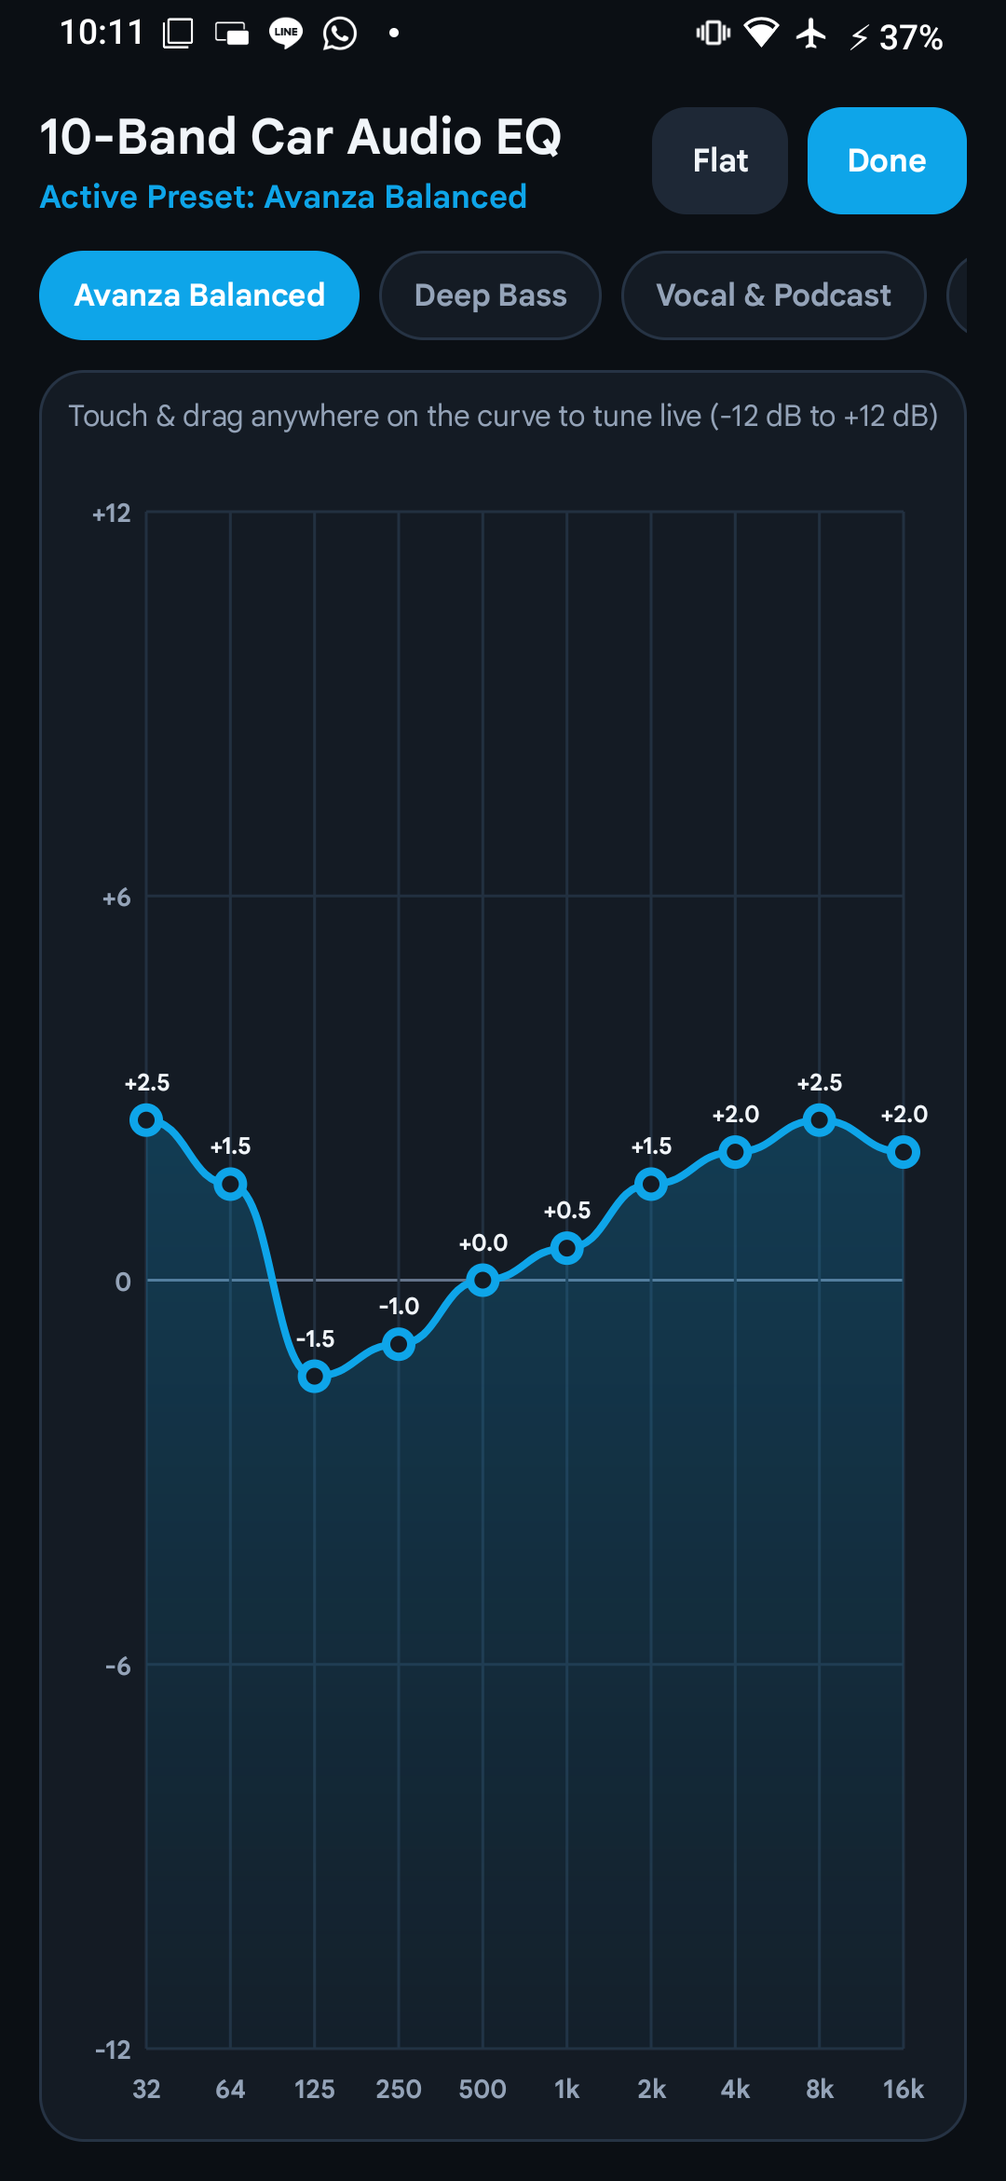
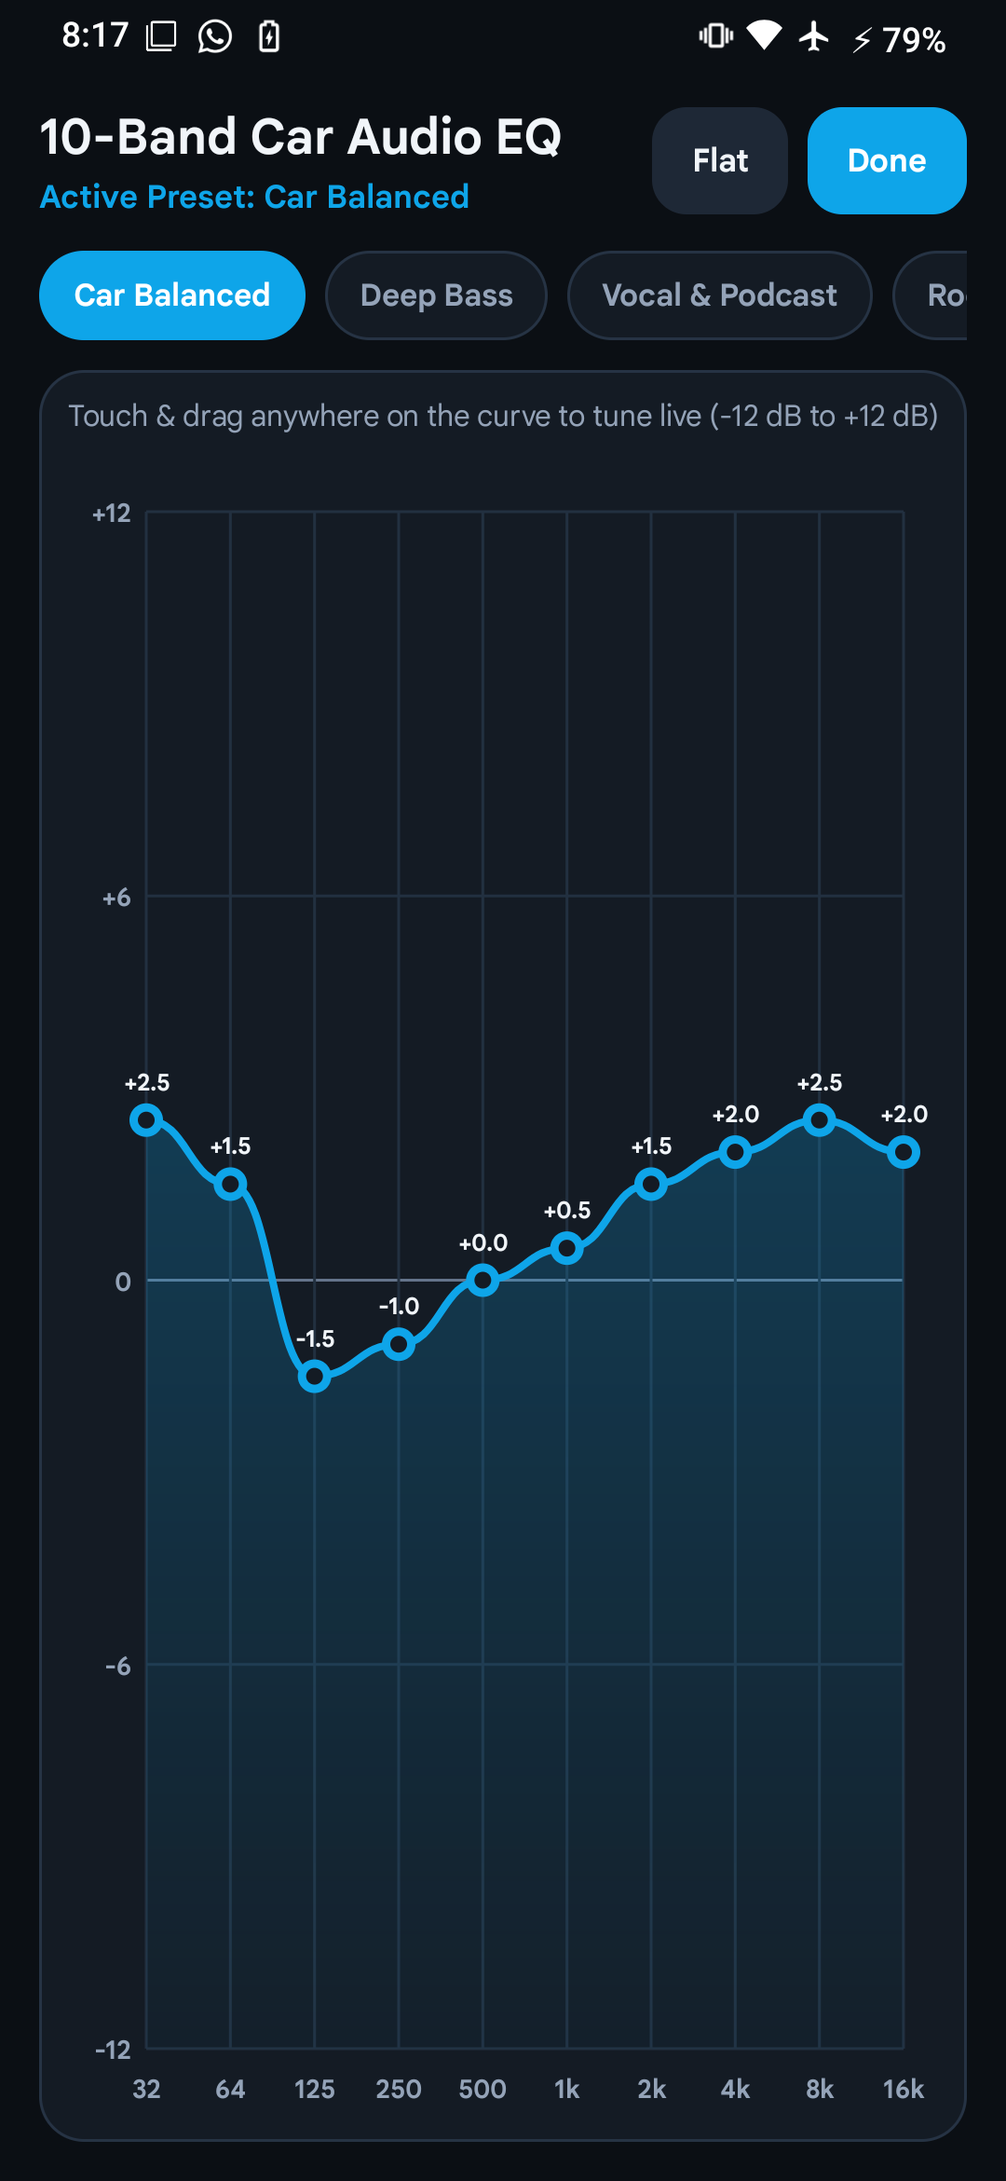
refactor(branding): generalize Toyota T-Link labels and refresh screenshots

diff --git a/apps/tlinkx-companion/src/com/tlinkx/companion/MainActivity.java b/apps/tlinkx-companion/src/com/tlinkx/companion/MainActivity.java
@@ -145,7 +145,7 @@ public class MainActivity extends Activity implements CarModeService.Callback {
                     .putString("touch_fit", CarDisplayController.DEFAULT_TOUCH_FIT)
                     .putBoolean("dock_enabled", true)
                     .putBoolean("dock_right", true)
-                    .putString("eq_preset", BluetoothAudioController.EQ_AVANZA_BALANCED)
+                    .putString("eq_preset", BluetoothAudioController.EQ_CAR_BALANCED)
                     .putBoolean("auto_vol_95", true)
                     .putBoolean("v2_defaults_applied", true)
                     .apply();
@@ -197,7 +197,7 @@ public class MainActivity extends Activity implements CarModeService.Callback {
         titleCol.addView(appTitle);
 
         TextView carModel = new TextView(this);
-        carModel.setText("Toyota Avanza Companion");
+        carModel.setText("Toyota T-Link Companion");
         carModel.setTextColor(theme.textSecondary);
         carModel.setTextSize(TypedValue.COMPLEX_UNIT_SP, 13);
         titleCol.addView(carModel);
@@ -217,7 +217,7 @@ public class MainActivity extends Activity implements CarModeService.Callback {
         LinearLayout heroCard = theme.makeCard(this);
 
         statusSubtitle = new TextView(this);
-        statusSubtitle.setText("Tap Start before plugging your phone into the Avanza USB port.");
+        statusSubtitle.setText("Tap Start before plugging your phone into your car's USB port.");
         statusSubtitle.setTextColor(theme.textSecondary);
         statusSubtitle.setTextSize(TypedValue.COMPLEX_UNIT_SP, 13.5f);
         statusSubtitle.setLineSpacing(dp(3), 1f);
@@ -372,7 +372,7 @@ public class MainActivity extends Activity implements CarModeService.Callback {
         dockAudioCard.addView(eqTitle);
 
         TextView eqSub = new TextView(this);
-        eqSub.setText("Tuned for Avanza Bluetooth audio (BAM)");
+        eqSub.setText("Tuned for Toyota Display Audio (Bluetooth)");
         eqSub.setTextColor(theme.textSecondary);
         eqSub.setTextSize(TypedValue.COMPLEX_UNIT_SP, 12.5f);
         LinearLayout.LayoutParams eqSubLp = new LinearLayout.LayoutParams(
@@ -384,7 +384,7 @@ public class MainActivity extends Activity implements CarModeService.Callback {
         eqRow.setOrientation(LinearLayout.HORIZONTAL);
         String[] eqLabels = new String[]{"Balanced", "Bass", "Vocal", "Custom"};
         String[] quickEqKeys = new String[]{
-                BluetoothAudioController.EQ_AVANZA_BALANCED,
+                BluetoothAudioController.EQ_CAR_BALANCED,
                 BluetoothAudioController.EQ_DEEP_BASS,
                 BluetoothAudioController.EQ_VOCAL_CLARITY,
                 BluetoothAudioController.EQ_CUSTOM
@@ -501,7 +501,7 @@ public class MainActivity extends Activity implements CarModeService.Callback {
         advancedContent.addView(theme.makeDivider(this));
 
         rotValue = makeValueLabel();
-        advancedContent.addView(makePickerRow("Touch Rotation", "Avanza calibrated to 270\u00B0", rotValue, v -> {
+        advancedContent.addView(makePickerRow("Touch Rotation", "Default calibrated to 270\u00B0", rotValue, v -> {
             int next = (prefs.getInt("touch_rot", CarDisplayController.DEFAULT_TOUCH_ROT) + 90) % 360;
             prefs.edit().putInt("touch_rot", next).apply();
             updateAllOptionViews();
@@ -765,17 +765,17 @@ public class MainActivity extends Activity implements CarModeService.Callback {
                     statusBadge.setText("\u25CF  Connected");
                     statusBadge.setBackground(theme.roundedRect(this, theme.accentSuccessBg, Color.TRANSPARENT, 99, false));
                     statusBadge.setTextColor(theme.accentSuccessText);
-                    statusSubtitle.setText("Connected to Avanza — 1024\u00D7600 fullscreen and direct touch are active.");
+                    statusSubtitle.setText("Connected to car display — fullscreen and direct touch are active.");
                 } else if (daemonOk && autoTrig) {
                     statusBadge.setText("\u25CF  Auto-Ready");
                     statusBadge.setBackground(theme.roundedRect(this, theme.accentSuccessBg, Color.TRANSPARENT, 99, false));
                     statusBadge.setTextColor(theme.accentSuccessText);
-                    statusSubtitle.setText("Zero-touch mode active — just plug into your Avanza USB port. No app or notification runs while unplugged.");
+                    statusSubtitle.setText("Zero-touch mode active — just plug into your car's USB port. No app or notification runs while unplugged.");
                 } else {
                     statusBadge.setText("\u25CF  Paused");
                     statusBadge.setBackground(theme.roundedRect(this, theme.bgSubtle, Color.TRANSPARENT, 99, false));
                     statusBadge.setTextColor(theme.textSecondary);
-                    statusSubtitle.setText("Tap Enable Zero-Touch Mode once so T-LinkX wakes automatically whenever you plug into your Avanza.");
+                    statusSubtitle.setText("Tap Enable Zero-Touch Mode once so T-LinkX wakes automatically whenever you plug into your car.");
                 }
 
                 if (carAct) {
@@ -808,7 +808,8 @@ public class MainActivity extends Activity implements CarModeService.Callback {
         boolean dockOn = prefs.getBoolean("dock_enabled", true);
         boolean dockRight = prefs.getBoolean("dock_right", true);
         boolean autoVol = prefs.getBoolean("auto_vol_95", true);
-        String eq = prefs.getString("eq_preset", BluetoothAudioController.EQ_AVANZA_BALANCED);
+        String eq = prefs.getString("eq_preset", BluetoothAudioController.EQ_CAR_BALANCED);
+        if ("avanza_balanced".equals(eq)) eq = BluetoothAudioController.EQ_CAR_BALANCED;
         String preset = prefs.getString("preset", CarDisplayController.DEFAULT_PRESET);
         int rot = prefs.getInt("touch_rot", CarDisplayController.DEFAULT_TOUCH_ROT);
         String fit = prefs.getString("touch_fit", CarDisplayController.DEFAULT_TOUCH_FIT);
@@ -821,7 +822,7 @@ public class MainActivity extends Activity implements CarModeService.Callback {
         chipEq.setText("EQ: " + shortEqLabel(eq));
 
         String[] quickEqKeys = new String[]{
-                BluetoothAudioController.EQ_AVANZA_BALANCED,
+                BluetoothAudioController.EQ_CAR_BALANCED,
                 BluetoothAudioController.EQ_DEEP_BASS,
                 BluetoothAudioController.EQ_VOCAL_CLARITY,
                 BluetoothAudioController.EQ_CUSTOM

diff --git a/apps/tlinkx-companion/native/tlinkx-touchd.c b/apps/tlinkx-companion/native/tlinkx-touchd.c
@@ -380,7 +380,7 @@ static int find_phone_touchpanel(char *out_path, size_t out_len) {
     return found_fd;
 }
 
-static int find_avanza_touch(char *out_path, size_t out_len) {
+static int find_car_touch(char *out_path, size_t out_len) {
     DIR *dir = opendir("/dev/input");
     if (!dir) return -1;
 
@@ -459,7 +459,7 @@ static int create_uinput_touchscreen(void) {
     usetup.id.vendor = VIRT_VENDOR;
     usetup.id.product = VIRT_PRODUCT;
     usetup.id.version = VIRT_VERSION;
-    snprintf(usetup.name, UINPUT_MAX_NAME_SIZE, "T-LinkX Avanza Touchscreen");
+    snprintf(usetup.name, UINPUT_MAX_NAME_SIZE, "T-LinkX Direct Touchscreen");
 
     if (ioctl(ufd, UI_DEV_SETUP, &usetup) < 0 || ioctl(ufd, UI_DEV_CREATE) < 0) {
         log_msg("ERROR: uinput setup/create failed: %s", strerror(errno));
@@ -553,7 +553,7 @@ static void bridge_session(int touch_fd, const char *touch_path, int phone_fd, i
         log_msg("ERROR: EVIOCGRAB failed on %s: %s", touch_path, strerror(errno));
         return;
     }
-    log_msg("Grabbed Avanza touch node %s (EVIOCGRAB=1 -> TouchpadInputMapper silenced)", touch_path);
+    log_msg("Grabbed car touch node %s (EVIOCGRAB=1 -> TouchpadInputMapper silenced)", touch_path);
 
     int ufd = create_uinput_touchscreen();
     if (ufd < 0) {
@@ -601,7 +601,7 @@ static void bridge_session(int touch_fd, const char *touch_path, int phone_fd, i
         if (rc == 0) continue;
 
         if (pfds[idx_touch].revents & (POLLHUP | POLLERR | POLLNVAL)) {
-            log_msg("Avanza touch node %s disconnected (revents=0x%x)", touch_path, pfds[idx_touch].revents);
+            log_msg("Car touch node %s disconnected (revents=0x%x)", touch_path, pfds[idx_touch].revents);
             break;
         }
 
@@ -685,7 +685,7 @@ int main(void) {
         log_msg("Watching phone touchpanel %s for tap-to-wake OLED backlight", phone_path);
     }
     if (uevent_fd >= 0) {
-        log_msg("Listening on NETLINK_KOBJECT_UEVENT (0%% CPU sleep until Avanza USB plug-in)");
+        log_msg("Listening on NETLINK_KOBJECT_UEVENT (0%% CPU sleep until car USB plug-in)");
     }
 
     reload_config(true);
@@ -695,7 +695,7 @@ int main(void) {
         check_pending_disconnect();
 
         char path[128] = {0};
-        int touch_fd = find_avanza_touch(path, sizeof(path));
+        int touch_fd = find_car_touch(path, sizeof(path));
         if (touch_fd >= 0) {
             bridge_session(touch_fd, path, phone_fd, uevent_fd);
             close(touch_fd);

diff --git a/apps/tlinkx-companion/src/com/tlinkx/companion/CarDisplayController.java b/apps/tlinkx-companion/src/com/tlinkx/companion/CarDisplayController.java
@@ -43,7 +43,7 @@ public final class CarDisplayController {
     private static volatile boolean sBlackoutActive = false;
 
     public static String buildVirtualTouchIdc(boolean orientationAware) {
-        return "# T-LinkX Virtual Direct Touchscreen (uinput bridge for Avanza 1.5G)\n"
+        return "# T-LinkX Virtual Direct Touchscreen (uinput bridge for Toyota T-Link)\n"
                 + "device.internal = 1\n"
                 + "touch.deviceType = touchScreen\n"
                 + "touch.orientationAware = " + (orientationAware ? "1" : "0") + "\n";
@@ -54,11 +54,11 @@ public final class CarDisplayController {
         String nativeBin = ctx.getApplicationInfo().nativeLibraryDir + "/libtlinkx_touchd.so";
         String ksuBin = IDC_KSU_DIR + "/bin/tlinkx-touchd";
         String moduleProp = "id=tlinkx-touch\n"
-                + "name=T-LinkX Avanza Zero-Touch Car Mode + Touch Bridge\n"
-                + "version=v2.4.0\n"
-                + "versionCode=12\n"
+                + "name=T-LinkX Zero-Touch Car Mode + Touch Bridge\n"
+                + "version=v2.4.4\n"
+                + "versionCode=16\n"
                 + "author=T-LinkX\n"
-                + "description=Zero-touch USB AOA auto-trigger, direct touchscreen bridge for Avanza 1.5G, and boot failsafe.\n";
+                + "description=Zero-touch USB AOA auto-trigger, direct touchscreen bridge for Toyota T-Link, and boot failsafe.\n";
         String serviceSh = "#!/system/bin/sh\n"
                 + "until [ \"$(getprop sys.boot_completed)\" = \"1\" ]; do sleep 2; done\n"
                 + "wm size reset\n"
@@ -398,7 +398,7 @@ public final class CarDisplayController {
                 "echo '=== DAEMON LOG ==='; "
                         + "if [ -f " + TOUCH_LOG_PATH + " ]; then tail -n 25 " + TOUCH_LOG_PATH + "; else echo '(no daemon log yet)'; fi; "
                         + "echo '=== INPUT READER (T-LinkX) ==='; "
-                        + "dumpsys input | awk '/Device [0-9]+: T-LinkX Avanza Touchscreen/{p=1} p{print} p && /PressureScale/{p=0}' | head -n 35",
+                        + "dumpsys input | awk '/Device [0-9]+: T-LinkX Direct Touchscreen/{p=1} p{print} p && /PressureScale/{p=0}' | head -n 35",
                 5000);
         return r.out.trim();
     }

diff --git a/apps/tlinkx-companion/src/com/tlinkx/companion/BluetoothAudioController.java b/apps/tlinkx-companion/src/com/tlinkx/companion/BluetoothAudioController.java
@@ -12,7 +12,7 @@ import android.media.audiofx.DynamicsProcessing;
 public final class BluetoothAudioController {
     private static final String PREFS = "tlinkx_prefs";
 
-    public static final String EQ_AVANZA_BALANCED = "avanza_balanced";
+    public static final String EQ_CAR_BALANCED = "car_balanced";
     public static final String EQ_DEEP_BASS = "deep_bass";
     public static final String EQ_VOCAL_CLARITY = "vocal_clarity";
     public static final String EQ_ROCK_POP = "rock_pop";
@@ -23,7 +23,7 @@ public final class BluetoothAudioController {
     public static final String EQ_OFF = "off";
 
     public static final String[] ALL_PRESETS = new String[]{
-            EQ_AVANZA_BALANCED,
+            EQ_CAR_BALANCED,
             EQ_DEEP_BASS,
             EQ_VOCAL_CLARITY,
             EQ_ROCK_POP,
@@ -66,7 +66,7 @@ public final class BluetoothAudioController {
         if (EQ_NIGHT_DRIVE.equals(preset)) return "Night Drive";
         if (EQ_CUSTOM.equals(preset)) return "Custom";
         if (EQ_OFF.equals(preset)) return "Flat / Off";
-        return "Avanza Balanced";
+        return "Car Balanced";
     }
 
     public static float[] getGainsForPreset(Context ctx, String preset) {
@@ -94,7 +94,7 @@ public final class BluetoothAudioController {
         if (EQ_CUSTOM.equals(preset)) {
             return loadCustomGains(ctx);
         }
-        // Avanza Balanced: tight sub-bass, tame door boom @ 125-250Hz, clear mids & crisp highs
+        // Car Balanced: tight sub-bass, tame door boom @ 125-250Hz, clear mids & crisp highs
         return new float[]{2.5f, 1.5f, -1.5f, -1.0f, 0.0f, 0.5f, 1.5f, 2.0f, 2.5f, 2.0f};
     }
 

diff --git a/apps/tlinkx-companion/src/com/tlinkx/companion/CarModeService.java b/apps/tlinkx-companion/src/com/tlinkx/companion/CarModeService.java
@@ -201,8 +201,8 @@ public class CarModeService extends Service {
             return;
         }
         startForegroundCompat(autoTriggered
-                ? "Avanza USB detected — preparing 1024x600 Car Mode..."
-                : "Starting Touch Bridge + Watching Avanza USB...");
+                ? "Car USB detected — preparing fullscreen Car Mode..."
+                : "Starting Touch Bridge + Watching Car USB...");
         notifyState();
 
         pollerThread = new Thread(() -> {
@@ -365,7 +365,7 @@ public class CarModeService extends Service {
         mirroringOverlaysActive.set(true);
 
         SharedPreferences sp = getSharedPreferences(PREFS, MODE_PRIVATE);
-        String eqPreset = sp.getString("eq_preset", BluetoothAudioController.EQ_AVANZA_BALANCED);
+        String eqPreset = sp.getString("eq_preset", BluetoothAudioController.EQ_CAR_BALANCED);
         boolean autoVol = sp.getBoolean("auto_vol_95", true);
 
         if (audioController != null) {
@@ -474,7 +474,7 @@ public class CarModeService extends Service {
         } else if (carDisplayActive.get()) {
             txt = "USB ATTACHED (1024x600 Ready) - Waiting for T-Link cast";
         } else {
-            txt = "Direct Touch Bridge READY - Plug into Avanza USB";
+            txt = "Direct Touch Bridge READY - Plug into Car USB";
         }
         NotificationManager nm = (NotificationManager) getSystemService(Context.NOTIFICATION_SERVICE);
         if (nm != null) {

diff --git a/apps/tlinkx-companion/src/com/tlinkx/companion/CarLauncherActivity.java b/apps/tlinkx-companion/src/com/tlinkx/companion/CarLauncherActivity.java
@@ -26,7 +26,7 @@ import java.util.Date;
 import java.util.Locale;
 
 /**
- * Netflix Account-Picker inspired full-screen Car Home Launcher shown on the Avanza head unit
+ * Netflix Account-Picker inspired full-screen Car Home Launcher shown on the car head unit
  * once T-Link mirroring connects. No side dock is shown until the driver picks an app.
  */
 public class CarLauncherActivity extends Activity {
@@ -121,7 +121,7 @@ public class CarLauncherActivity extends Activity {
         brandGroup.addView(brand);
 
         TextView badge = new TextView(this);
-        badge.setText("AVANZA");
+        badge.setText("TOYOTA");
         badge.setTextColor(Color.parseColor("#38BDF8"));
         badge.setTextSize(TypedValue.COMPLEX_UNIT_SP, 10.5f);
         badge.setTypeface(Typeface.DEFAULT_BOLD);

diff --git a/apps/tlinkx-companion/src/com/tlinkx/companion/EqTunerActivity.java b/apps/tlinkx-companion/src/com/tlinkx/companion/EqTunerActivity.java
@@ -48,7 +48,10 @@ public class EqTunerActivity extends Activity {
         theme = new UiTheme(this);
         styleBars();
 
-        currentPreset = prefs.getString("eq_preset", BluetoothAudioController.EQ_AVANZA_BALANCED);
+        currentPreset = prefs.getString("eq_preset", BluetoothAudioController.EQ_CAR_BALANCED);
+        if ("avanza_balanced".equals(currentPreset)) {
+            currentPreset = BluetoothAudioController.EQ_CAR_BALANCED;
+        }
         float[] init = BluetoothAudioController.getGainsForPreset(this, currentPreset);
         System.arraycopy(init, 0, gains, 0, gains.length);
 

diff --git a/apps/tlinkx-companion/src/com/tlinkx/companion/ReadinessChecker.java b/apps/tlinkx-companion/src/com/tlinkx/companion/ReadinessChecker.java
@@ -105,7 +105,7 @@ public final class ReadinessChecker {
         }
         if (!st.bluetoothOn) {
             msg.append("\u2022  Bluetooth: OFF\n")
-                    .append("    Required to stream audio to your Avanza speakers (BAM).\n\n");
+                    .append("    Required to stream audio to your car speakers.\n\n");
         }
         if (!st.locationOn) {
             msg.append("\u2022  Location (GPS): OFF\n")

diff --git a/apps/tlinkx-companion/src/com/tlinkx/companion/CarDockOverlay.java b/apps/tlinkx-companion/src/com/tlinkx/companion/CarDockOverlay.java
@@ -24,7 +24,7 @@ import java.util.Locale;
 
 /**
  * Sleek Android Auto-style floating Car Dock overlay tailored for 1024x600.
- * Defaults to the right edge for RHD vehicles (Indonesia Avanza) and collapses cleanly to an edge pill.
+ * Defaults to the right edge for RHD vehicles and collapses cleanly to an edge pill.
  */
 public final class CarDockOverlay {
     private final Context ctx;

diff --git a/apps/tlinkx-companion/src/com/tlinkx/companion/VoiceCommandActivity.java b/apps/tlinkx-companion/src/com/tlinkx/companion/VoiceCommandActivity.java
@@ -4,7 +4,7 @@ import android.app.Activity;
 import android.os.Bundle;
 
 /**
- * Transparent trampoline that captures Toyota Avanza steering-wheel Voice button
+ * Transparent trampoline that captures Toyota steering-wheel Voice button
  * (android.intent.action.VOICE_COMMAND over Bluetooth HFP) and forwards it to ShortcutRouter.
  */
 public class VoiceCommandActivity extends Activity {

diff --git a/apps/tlinkx-companion/src/com/tlinkx/companion/ShortcutRouter.java b/apps/tlinkx-companion/src/com/tlinkx/companion/ShortcutRouter.java
@@ -8,7 +8,7 @@ import android.view.KeyEvent;
 import android.widget.Toast;
 
 /**
- * Routes Toyota Avanza steering-wheel Voice button presses (ACTION_VOICE_COMMAND via BT HFP)
+ * Routes Toyota steering-wheel Voice button presses (ACTION_VOICE_COMMAND via BT HFP)
  * into multi-tap shortcuts (1x, 2x, 3x, 4x within 650 ms).
  */
 public final class ShortcutRouter {

diff --git a/README.md b/README.md
@@ -56,7 +56,7 @@ Tune your car speakers live with a smooth draggable curve, switch presets in one
 - **Customizable 4-App Car Home:** Pick your 4 go-to driving apps (for example: ApexOBD, Google Maps, YouTube, and YouTube Music) directly from the apps installed on your phone.
 - **Floating Car Dock & Resizable Split-Screen:** Appears cleanly on the side once you open an app (positioned for right-hand or left-hand drive). Includes quick access to Car Home, resizable Split-Screen (drag the divider to fit Maps + Music), Play/Pause, Next Track, EQ Tuner, Day/Night theme, and Phone Screen-Off.
 - **Phone Screen-Off Mode:** Turns your phone's screen completely dark while mirroring continues smoothly on the dashboard — preventing heat and screen burn-in. Touch anywhere on your phone screen to wake it back up instantly.
-- **10-Band Car Audio EQ (Memorized):** Includes 8 car-tuned presets (*Avanza Balanced*, *Deep Bass*, *Vocal & Podcast*, *Rock & Pop*, *Acoustic & Jazz*, *EDM & Hip-Hop*, *Night Drive*) plus a live **Custom** graph that stays saved across drives.
+- **10-Band Car Audio EQ (Memorized):** Includes 8 car-tuned presets (*Car Balanced*, *Deep Bass*, *Vocal & Podcast*, *Rock & Pop*, *Acoustic & Jazz*, *EDM & Hip-Hop*, *Night Drive*) plus a live **Custom** graph that stays saved across drives.
 - **Pre-Drive Readiness Check:** Automatically alerts you on your phone if Internet Data, Bluetooth, or Location is turned off, with a one-tap option to enable what's missing or continue anyway.
 
 ---
@@ -106,6 +106,6 @@ Your car's head unit only accepts its own authorized video connection from the o
 
 <div align="center">
 
-*Tested on 2024 Toyota Avanza 1.5G (JVCKENWOOD Display Audio) • Built for drivers who expected more from T-Link.*
+*Built for Toyota T-Link drivers who expected more.*
 
 </div>
